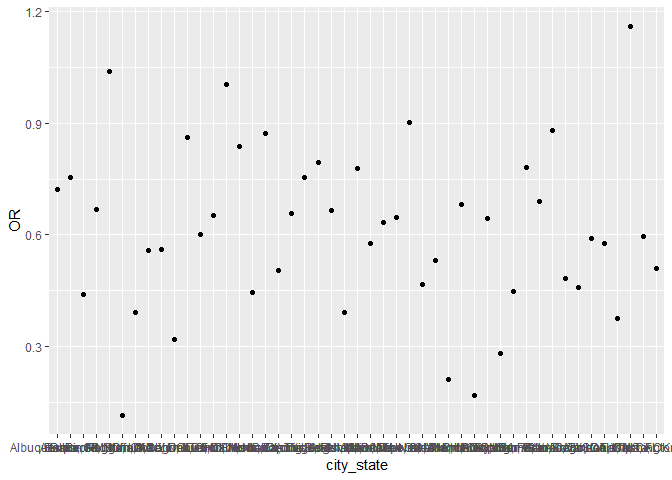
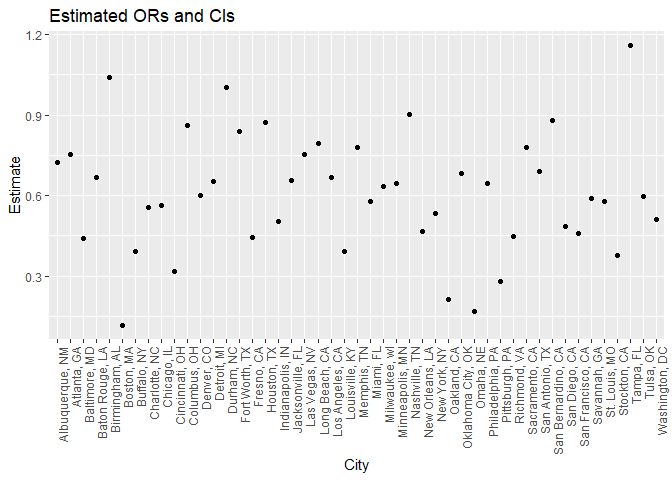
trying to fix the plot

diff --git a/p8105_hw6_as5457.md b/p8105_hw6_as5457.md
@@ -140,7 +140,13 @@ Create a plot that shows the estimated ORs and CIs for each city. Organize citie
 
 ``` r
 all_cities %>% 
-  ggplot(aes(x = city_state, y = OR)) + geom_point()
+  ggplot(aes(x = city_state, y = OR)) + geom_point() +
+  theme(axis.text.x = element_text(angle = 90, hjust = 1)) +
+  labs (
+    title = "Estimated ORs and CIs",
+        x = "City",
+        y = "Estimate"
+  )
 ```
 
 ![](p8105_hw6_as5457_files/figure-markdown_github/unnamed-chunk-7-1.png)
